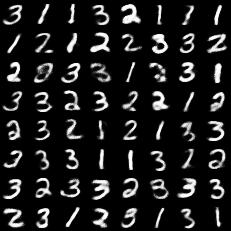
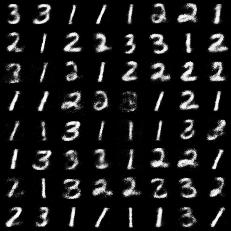
Smaller epochs.

diff --git a/vae.py b/vae.py
@@ -24,13 +24,13 @@ try:
 except ImportError:
     import numpy as np
     print("CuPy not enabled on this machine")
-    
+
 
 np.random.seed(111)
 
 class VAE():
     def __init__(self, numbers):
-        
+
         self.numbers = numbers
 
         self.epochs = args.epoch
@@ -43,7 +43,7 @@ class VAE():
         self.img_path = "./images"
         if not os.path.exists(self.img_path):
                 os.makedirs(self.img_path)
-        
+
         # Xavier initialization is used to initialize the weights
         # init encoder weights
         self.e_W0 = np.random.randn(784, self.layersize).astype(np.float32) * np.sqrt(2.0/(784))
@@ -51,21 +51,21 @@ class VAE():
 
         self.e_W_mu = np.random.randn(self.layersize, self.nz).astype(np.float32) * np.sqrt(2.0/(self.layersize))
         self.e_b_mu = np.zeros(self.nz).astype(np.float32)
-        
+
         self.e_W_logvar = np.random.randn(self.layersize, self.nz).astype(np.float32) * np.sqrt(2.0/(self.layersize))
         self.e_b_logvar = np.zeros(self.nz).astype(np.float32)
 
-        # init decoder weights 
+        # init decoder weights
         self.d_W0 = np.random.randn(self.nz, self.layersize).astype(np.float32) * np.sqrt(2.0/(self.nz))
         self.d_b0 = np.zeros(self.layersize).astype(np.float32)
-        
+
         self.d_W1 = np.random.randn(self.layersize, 784).astype(np.float32) * np.sqrt(2.0/(self.layersize))
         self.d_b1 = np.zeros(784).astype(np.float32)
-             
+
         # init sample
         self.sample_z = 0
         self.rand_sample = 0
-        
+
         # init Adam optimizer
         self.b1 = args.b1
         self.b2 = args.b2
@@ -73,27 +73,27 @@ class VAE():
         self.m = [0] * 10
         self.v = [0] * 10
         self.t = 0
-        
+
     def encoder(self, img):
-        #self.e_logvar : log variance 
+        #self.e_logvar : log variance
         #self.e_mean : mean
 
         self.e_input = np.reshape(img, (self.batch_size,-1))
-    
+
         self.e_h0_l = self.e_input.dot(self.e_W0) + self.e_b0
         self.e_h0_a = lrelu(self.e_h0_l)
-    		
+
         self.e_logvar = self.e_h0_a.dot(self.e_W_logvar) + self.e_b_logvar
         self.e_mu = self.e_h0_a.dot(self.e_W_mu) + self.e_b_mu
-    
+
         return self.e_mu, self.e_logvar
-    
+
     def decoder(self, z):
         #self.d_out : reconstruction image 28x28
-		
+
         self.z = np.reshape(z, (self.batch_size, self.nz))
-        
-        self.d_h0_l = self.z.dot(self.d_W0) + self.d_b0		
+
+        self.d_h0_l = self.z.dot(self.d_W0) + self.d_b0
         self.d_h0_a = relu(self.d_h0_l)
 
         self.d_h1_l = self.d_h0_a.dot(self.d_W1) + self.d_b1
@@ -102,104 +102,104 @@ class VAE():
         self.d_out = np.reshape(self.d_h1_a, (self.batch_size, 28, 28, 1))
 
         return self.d_out
-    
+
     def forward(self, x):
         #Encode
         mu, logvar = self.encoder(x)
-        
+
         #use reparameterization trick to sample from gaussian
         self.rand_sample = np.random.standard_normal(size=(self.batch_size, self.nz))
         self.sample_z = mu + np.exp(logvar * .5) * np.random.standard_normal(size=(self.batch_size, self.nz))
-        
+
         decode = self.decoder(self.sample_z)
-        
+
         return decode, mu, logvar
-    
+
     def backward(self, x, out):
         ########################################
         #Calculate gradients from reconstruction
         ########################################
         y = np.reshape(x, (self.batch_size, -1))
         out = np.reshape(out, (self.batch_size, -1))
-        
+
         #Calculate decoder gradients
         #Left side term
         dL_l = -y * (1 / out)
         dsig = sigmoid(self.d_h1_l, derivative=True)
         dL_dsig_l = dL_l * dsig
-        
+
         drelu = relu(self.d_h0_l, derivative=True)
 
         dW1_d_l = np.matmul(np.expand_dims(self.d_h0_a, axis=-1), np.expand_dims(dL_dsig_l, axis=1))
-        db1_d_l = dL_dsig_l 
-        
+        db1_d_l = dL_dsig_l
+
         db0_d_l = dL_dsig_l.dot(self.d_W1.T) * drelu
         dW0_d_l = np.matmul(np.expand_dims(self.sample_z, axis=-1), np.expand_dims(db0_d_l, axis=1))
-        
+
         #Right side term
         dL_r = (1 - y) * (1 / (1 - out))
         dL_dsig_r = dL_r * dsig
-        
+
         dW1_d_r = np.matmul(np.expand_dims(self.d_h0_a, axis=-1), np.expand_dims(dL_dsig_r, axis=1))
         db1_d_r = dL_dsig_r
-        
+
         db0_d_r = dL_dsig_r.dot(self.d_W1.T) * drelu
         dW0_d_r = np.matmul(np.expand_dims(self.sample_z, axis=-1), np.expand_dims(db0_d_r, axis=1))
-        
+
         # Combine gradients for decoder
         grad_d_W0 = dW0_d_l + dW0_d_r
         grad_d_b0 = db0_d_l + db0_d_r
         grad_d_W1 = dW1_d_l + dW1_d_r
         grad_d_b1 = db1_d_l + db1_d_r
-         
+
         #Calculate encoder gradients from reconstruction
         #Left side term
         d_b_mu_l  = db0_d_l.dot(self.d_W0.T)
         d_W_mu_l = np.matmul(np.expand_dims(self.e_h0_a, axis=-1), np.expand_dims(d_b_mu_l, axis=1))
-        
+
         db0_e_l = d_b_mu_l.dot(self.e_W_mu.T) * lrelu(self.e_h0_l, derivative=True)
-        dW0_e_l = np.matmul(np.expand_dims(y, axis=-1), np.expand_dims(db0_e_l, axis=1)) 
-        
+        dW0_e_l = np.matmul(np.expand_dims(y, axis=-1), np.expand_dims(db0_e_l, axis=1))
+
         d_b_logvar_l = d_b_mu_l * np.exp(self.e_logvar * .5) * .5 * self.rand_sample
         d_W_logvar_l = np.matmul(np.expand_dims(self.e_h0_a, axis=-1), np.expand_dims(d_b_logvar_l, axis=1))
-        
+
         db0_e_l_2 = d_b_logvar_l.dot(self.e_W_logvar.T) * lrelu(self.e_h0_l, derivative=True)
-        dW0_e_l_2 = np.matmul(np.expand_dims(y, axis=-1), np.expand_dims(db0_e_l_2, axis=1)) 
-        
+        dW0_e_l_2 = np.matmul(np.expand_dims(y, axis=-1), np.expand_dims(db0_e_l_2, axis=1))
+
         #Right side term
         d_b_mu_r  = db0_d_r.dot(self.d_W0.T)
         d_W_mu_r = np.matmul(np.expand_dims(self.e_h0_a, axis=-1), np.expand_dims(d_b_mu_r, axis=1))
-        
+
         db0_e_r = d_b_mu_r.dot(self.e_W_mu.T) * lrelu(self.e_h0_l, derivative=True)
-        dW0_e_r = np.matmul(np.expand_dims(y, axis=-1), np.expand_dims(db0_e_r, axis=1)) 
-        
+        dW0_e_r = np.matmul(np.expand_dims(y, axis=-1), np.expand_dims(db0_e_r, axis=1))
+
         d_b_logvar_r = d_b_mu_r * np.exp(self.e_logvar * .5) * .5 * self.rand_sample
         d_W_logvar_r = np.matmul(np.expand_dims(self.e_h0_a, axis=-1), np.expand_dims(d_b_logvar_r, axis=1))
-        
+
         db0_e_r_2 = d_b_logvar_r.dot(self.e_W_logvar.T) * lrelu(self.e_h0_l, derivative=True)
         dW0_e_r_2 = np.matmul(np.expand_dims(y, axis=-1), np.expand_dims(db0_e_r_2, axis=1))
-        
+
         ########################################
         #Calculate encoder gradients from K-L
         ########################################
-    
+
         #logvar terms
         dKL_b_log = -.5 * (1 - np.exp(self.e_logvar))
         dKL_W_log = np.matmul(np.expand_dims(self.e_h0_a, axis= -1), np.expand_dims(dKL_b_log, axis= 1))
-        
+
         #Heaviside step function
-        dlrelu = lrelu(self.e_h0_l, derivative=True)  
+        dlrelu = lrelu(self.e_h0_l, derivative=True)
 
         dKL_e_b0_1 = .5 * dlrelu * (np.exp(self.e_logvar) - 1).dot(self.e_W_logvar.T)
         dKL_e_W0_1 = np.matmul(np.expand_dims(y, axis= -1), np.expand_dims(dKL_e_b0_1, axis= 1))
-        
+
         #m^2 term
         dKL_W_m = .5 * (2 * np.matmul(np.expand_dims(self.e_h0_a, axis=-1), np.expand_dims(self.e_mu, axis=1)))
         dKL_b_m = .5 * (2 * self.e_mu)
-        
+
         dKL_e_b0_2 = .5 * dlrelu * (2 * self.e_mu).dot(self.e_W_mu.T)
         dKL_e_W0_2 = np.matmul(np.expand_dims(y, axis= -1), np.expand_dims(dKL_e_b0_2, axis= 1))
-        
+
         # Combine gradients for encoder from recon and KL
         grad_b_logvar = dKL_b_log + d_b_logvar_l + d_b_logvar_r
         grad_W_logvar = dKL_W_log + d_W_logvar_l + d_W_logvar_r
@@ -207,11 +207,11 @@ class VAE():
         grad_W_mu = dKL_W_m + d_W_mu_l + d_W_mu_r
         grad_e_b0 = dKL_e_b0_1 + dKL_e_b0_2 + db0_e_l + db0_e_l_2 + db0_e_r + db0_e_r_2
         grad_e_W0 = dKL_e_W0_1 + dKL_e_W0_2 + dW0_e_l + dW0_e_l_2 + dW0_e_r + dW0_e_r_2
-        
-        
+
+
         grad_list = [grad_e_W0, grad_e_b0, grad_W_mu, grad_b_mu, grad_W_logvar, grad_b_logvar,
                      grad_d_W0, grad_d_b0, grad_d_W1, grad_d_b1]
-        
+
         ########################################
         #Calculate update using Adam
         ########################################
@@ -222,63 +222,66 @@ class VAE():
             m_h = self.m[i] / (1 - (self.b1 ** self.t))
             v_h = self.v[i] / (1 - (self.b2 ** self.t))
             grad_list[i] = m_h / (np.sqrt(v_h) + self.e)
-        
+
         # Update all weights
         for idx in range(self.batch_size):
             # Encoder Weights
             self.e_W0 = self.e_W0 - self.learning_rate*grad_list[0][idx]
             self.e_b0 = self.e_b0 - self.learning_rate*grad_list[1][idx]
-    
+
             self.e_W_mu = self.e_W_mu - self.learning_rate*grad_list[2][idx]
             self.e_b_mu = self.e_b_mu - self.learning_rate*grad_list[3][idx]
-            
+
             self.e_W_logvar = self.e_W_logvar - self.learning_rate*grad_list[4][idx]
             self.e_b_logvar = self.e_b_logvar - self.learning_rate*grad_list[5][idx]
-    
+
             # Decoder Weights
             self.d_W0 = self.d_W0 - self.learning_rate*grad_list[6][idx]
             self.d_b0 = self.d_b0 - self.learning_rate*grad_list[7][idx]
-            
+
             self.d_W1 = self.d_W1 - self.learning_rate*grad_list[8][idx]
             self.d_b1 = self.d_b1 - self.learning_rate*grad_list[9][idx]
-    
+
     def train(self):
-        
+
         #Read in training data
         trainX, _, train_size = mnist_reader(self.numbers)
-        
+
         np.random.shuffle(trainX)
-        
+
         #set batch indices
         batch_idx = train_size//self.batch_size
-        
+        batches_per_epoch = min(10, batch_idx)
+        # batches_per_epoch = batch_idx
+        del batch_idx
+
         total_loss = 0
         total_kl = 0
         total = 0
-        
+
         for epoch in range(self.epochs):
-            for idx in range(batch_idx):
+            for idx in range(batches_per_epoch):
                 # prepare batch and input vector z
                 train_batch = trainX[idx*self.batch_size:idx*self.batch_size + self.batch_size]
-                #ignore batch if there are insufficient elements 
+                #ignore batch if there are insufficient elements
                 if train_batch.shape[0] != self.batch_size:
                     break
-                
+
                 ################################
                 #		Forward Pass
                 ################################
-                
+
                 out, mu, logvar = self.forward(train_batch)
-                
+
                 # Reconstruction Loss
                 rec_loss = BCE_loss(out, train_batch)
-                
+
                 #K-L Divergence
                 kl = -0.5 * np.sum(1 + logvar - np.power(mu, 2) - np.exp(logvar))
-                
+
                 loss = rec_loss + kl
                 loss = loss / self.batch_size
-                
+
                 #Loss Recordkeeping
                 total_loss += rec_loss / self.batch_size
                 total_kl += kl / self.batch_size
@@ -289,27 +292,23 @@ class VAE():
                 ################################
                 # for every result in the batch
                 # calculate gradient and update the weights using Adam
-                self.backward(train_batch, out)	
+                self.backward(train_batch, out)
 
                 self.img = np.squeeze(out, axis=3) * 2 - 1
 
-                print("Epoch [%d] Step [%d]  RC Loss:%.4f  KL Loss:%.4f  lr: %.4f"%(
-                        epoch, idx, rec_loss / self.batch_size, kl / self.batch_size, self.learning_rate))
-                
-            if cpu_enabled == 1:
-                sample = np.array(self.img)
-            else: 
-                sample = np.asnumpy(self.img)
-            
+                print("Epoch [%d] Step [%d/%d]  RC Loss:%.4f  KL Loss:%.4f  lr: %.4f"%(
+                        epoch, idx, batches_per_epoch, rec_loss / self.batch_size, kl / self.batch_size, self.learning_rate))
+
+            sample = np.array(self.img)
+
             #save image result every epoch
             img_tile(sample, self.img_path, epoch, idx, "res", True)
 
 
 if __name__ == '__main__':
 
-    # Adjust the numbers that appear in the training data. Less numbers helps 
+    # Adjust the numbers that appear in the training data. Less numbers helps
     # run the program to see faster results
     numbers = [1, 2, 3]
     model = VAE(numbers)
     model.train()
-    

diff --git a/torchvae.py b/torchvae.py
@@ -132,8 +132,8 @@ class VAE(nn.Module):
 
         #set batch indices
         batch_idx = train_size//self.batch_size
-        # batches_per_epoch = min(10, batch_idx)
-        batches_per_epoch = batch_idx
+        batches_per_epoch = min(10, batch_idx)
+        # batches_per_epoch = batch_idx
         del batch_idx
 
         total_loss = 0
@@ -158,6 +158,7 @@ class VAE(nn.Module):
                 rec_loss = nn.BCELoss(reduction='sum')(out, torch.from_numpy(train_batch).float())
 
                 #K-L Divergence
+                # kl = -0.5 * np.sum(1 + logvar - np.power(mu, 2) - np.exp(logvar))
                 kl = -0.5 * torch.sum(1 + logvar - mu ** 2 - torch.exp(logvar))
 
                 loss = rec_loss + kl
